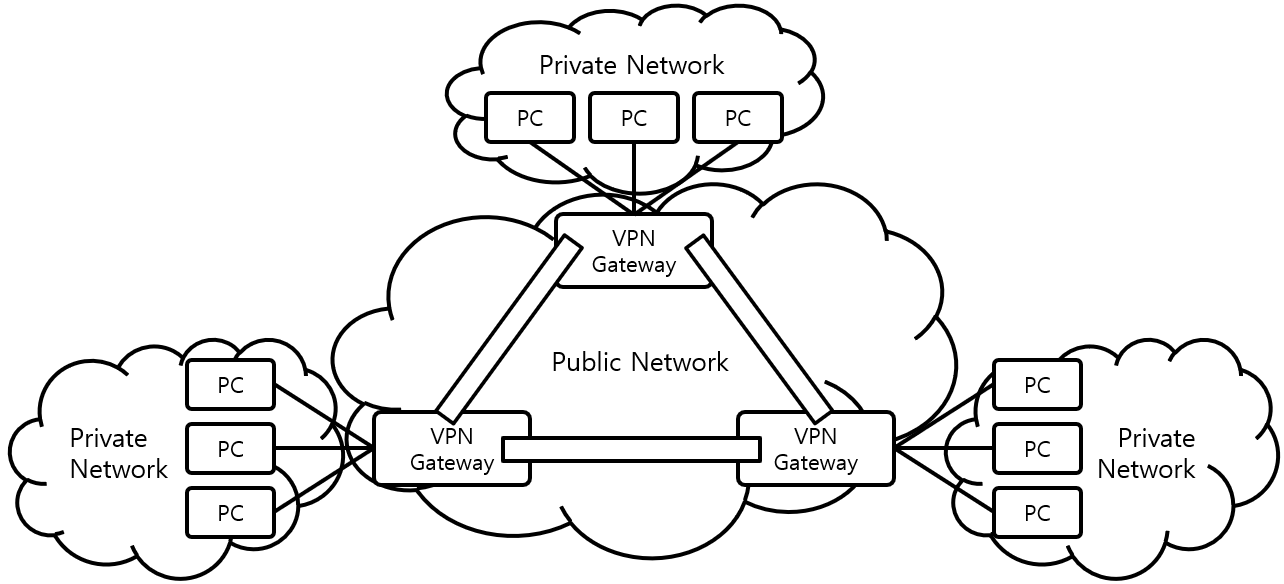
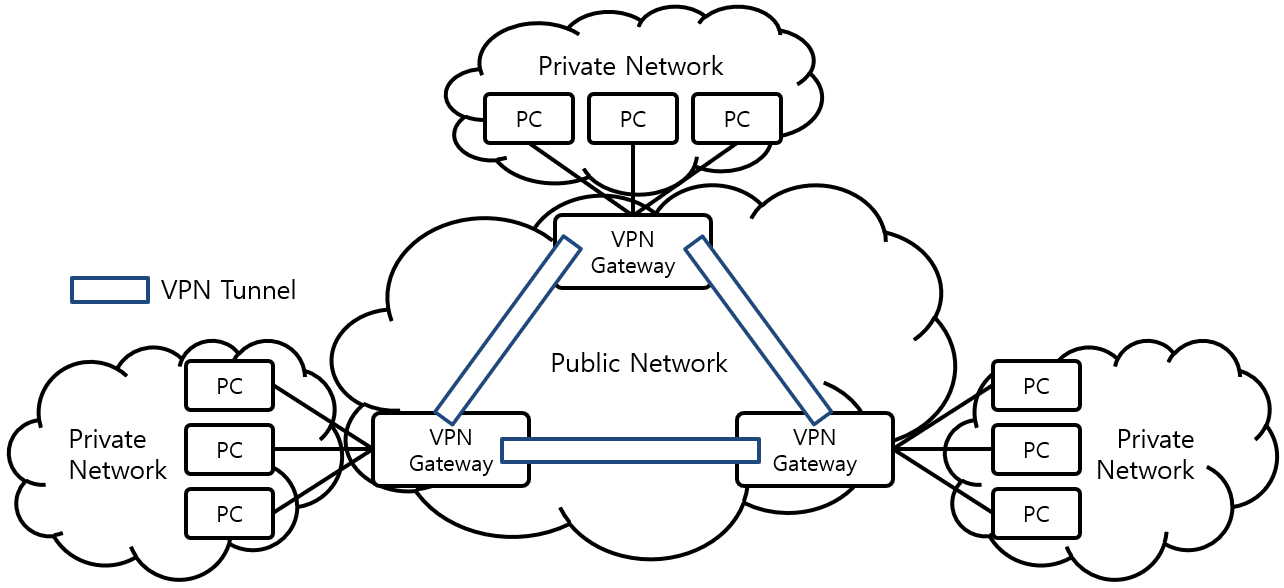
Update

diff --git a/_docs/theory_analysis/VPN.md b/_docs/theory_analysis/VPN.md
@@ -13,6 +13,8 @@ VPN (Virtual Private Network)을 분석한다.
 
 ![[그림 1] VPN Architecture]({{site.baseurl}}/images/theory_analysis/VPN/VPN_Achitecture.PNG){: width="700px"}
 
+VPN은 Public Network를 이용하여 Private Network를 구축하는 기술이다. [그림 1]은 VPN Architecture를 나타내고 있다. VPN은 Public Network에 VPN Tunnel을 구축하여 Private Network를 구축한다. VPN Tunnel은 VPN Gateway에 의해서 구축되며, PPTP (Point-to-Point Tunneling Protocol), L2TP (Layer Two Tunneling Protocol)등의 Tunneling 기법과 IPSec (Internet Protocol Security), SSL (Secure Socket Layer)등의 암호화 기법을 이용한다. VPN Gateway는 물리 장비이거나, 가상의 Software 장비가 될 수 있다.
+
 ### 2. 참조
 
 * [https://www.slideshare.net/Kajal_Thakkar/vpn-14074779](https://www.slideshare.net/Kajal_Thakkar/vpn-14074779)
